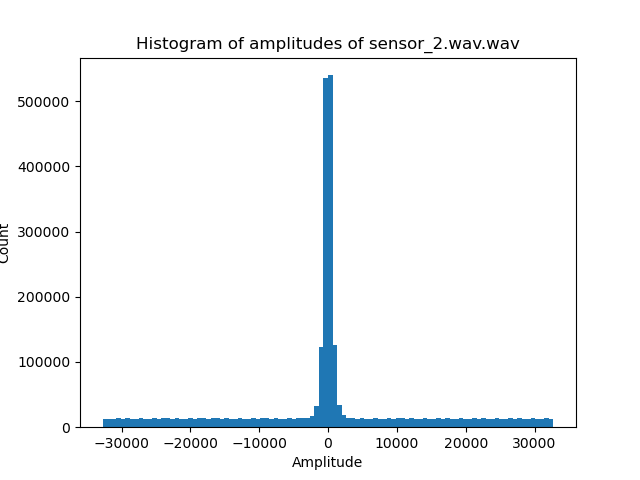
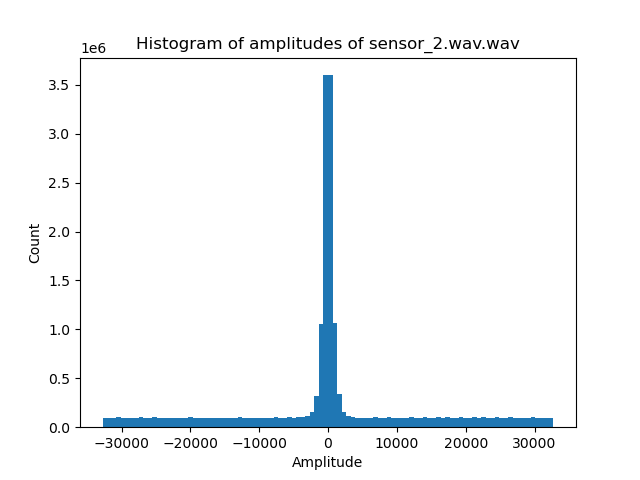
big reffactor

diff --git a/histograms.py b/histograms.py
@@ -10,6 +10,23 @@ def get_signal(filename):
     wav_file.close()
     return signal
 
+def get_framerate(filename):
+    wav_file = wave.open(filename, 'r')
+    framerate = wav_file.getframerate()
+    wav_file.close()
+    return framerate
+
+def compute_freq(signal, framerate):
+    # Compute the FFT of the signal and take the absolute value to get the magnitude
+    spectrum = np.abs(fft(signal))
+
+    # Compute the frequencies corresponding to the spectrum and only consider the positive frequencies
+    freq = np.fft.fftfreq(len(spectrum), 1 / framerate)
+    mask = freq > 0
+    spectrum = spectrum[mask]
+    freq = freq[mask]
+    return freq, spectrum
+
 def plot_waveform(filename='test_rec.wav'):
     wav_file = wave.open(filename, 'r')
 
@@ -48,23 +65,7 @@ def plot_waveform(filename='test_rec.wav'):
 
 # create histogram of amplitdues of audio file
 def histogram_of_amplitudes(filename):
-    wav_file = wave.open(filename, 'r')
-
-    # Get the frame rate
-    framerate = wav_file.getframerate()
-
-    # Calculate the number of frames that correspond to 30 seconds
-    num_frames = 30 * framerate
-
-    # Read the corresponding frames from the file
-    signal = wav_file.readframes(num_frames)
-    signal = np.frombuffer(signal, dtype='int16')
-
-    # Time axis in seconds
-    time = np.linspace(0., len(signal) / framerate, num=len(signal))
-
-    # Close the file
-    wav_file.close()
+    signal = get_signal(filename)
 
     # Create a new figure
     plt.figure()
@@ -78,38 +79,19 @@ def histogram_of_amplitudes(filename):
     # Label the axes
     plt.xlabel('Amplitude')
     plt.ylabel('Count')
-
-    # Here you can specify the title
     plt.title(f'Histogram of amplitudes of {filename}.wav')
 
-    # Display the plot
     plt.savefig(f'histograms/amp_hist_{filename}.png')
-    return max(signal) - min(signal)
+    plt.close()
+    return 
 
 
 def histogram_of_frequencies(filename):
-    # Open the file in read mode
-    wav_file = wave.open(filename, 'r')
-
-    # Read frames from the file
-    signal = wav_file.readframes(-1)
-    signal = np.frombuffer(signal, dtype='int16')
-
+    signal = get_signal(filename)
     # Get the frame rate
-    framerate = wav_file.getframerate()
+    framerate = get_framerate(filename)
 
-    # Close the file
-    wav_file.close()
-
-    # Compute the FFT of the signal and take the absolute value to get the magnitude
-    spectrum = np.abs(fft(signal))
-
-    # Compute the frequencies corresponding to the spectrum and only consider the positive frequencies
-    freq = np.fft.fftfreq(len(spectrum), 1 / framerate)
-    mask = freq > 0
-    spectrum = spectrum[mask]
-    freq = freq[mask]
-
+    freq, spectrum = compute_freq(signal, framerate)
     # Create a new figure
     plt.figure()
 
@@ -154,7 +136,7 @@ def histogram_of_volume_db(filename):
     plt.savefig(f'histograms/vol_db_hist{filename}.png')
     return
 
-def generate_histograms(filename):
+def generate_all_histograms(filename):
     #plot_waveform(filename)
     histogram_of_amplitudes(filename)
     histogram_of_frequencies(filename)
@@ -168,21 +150,15 @@ def number_of_samples(filename):
     wav_file.close()
     return num_frames
 
-def count_samples():
+def count_all_samples():
     for file in ['test_rec.wav', 'processed2.wav', 'sensor_1.wav', 'sensor_2.wav', 'sensor_3.wav', 'uni_mix_reduced_output.wav']:
         print(f'Number of samples in {file}: {number_of_samples(file)}')
         # all samples have 9595771 frames
     return
 
 def manhattan_distance_of_volume(file_one, file_two):
-    wav_file_one = wave.open(file_one, 'r')
-    wav_file_two = wave.open(file_two, 'r')
-    signal_one = wav_file_one.readframes(-1)
-    signal_two = wav_file_two.readframes(-1)
-    signal_one = np.frombuffer(signal_one, dtype='int16')
-    signal_two = np.frombuffer(signal_two, dtype='int16')
-    wav_file_one.close()
-    wav_file_two.close()
+    signal_one = get_signal(file_one)
+    signal_two = get_signal(file_two)
     if len(signal_two) > len(signal_one):
         signal_two = signal_two[::2]
     elif len(signal_one) > len(signal_two):
@@ -197,38 +173,26 @@ def manhattan_distance_of_volume(file_one, file_two):
     return manhattan_distance
 
 def manhattan_distance_amplitude(file_one, file_two):
-    wav_file_one = wave.open(file_one, 'r')
-    wav_file_two = wave.open(file_two, 'r')
-    signal_one = wav_file_one.readframes(-1)
-    signal_two = wav_file_two.readframes(-1)
-    signal_one = np.frombuffer(signal_one, dtype='int16')
-    signal_two = np.frombuffer(signal_two, dtype='int16')
+    signal_one = get_signal(file_one)
+    signal_two = get_signal(file_two)
 
     # remove every second value from signal_two if its longer than signal_one
     if len(signal_one) > len(signal_two):
         signal_one = signal_one[::2]
 
-    wav_file_one.close()
-    wav_file_two.close()
     manhattan_distance = np.sum(np.abs(signal_one - signal_two))
     manhattan_distance = "{:.3e}".format(manhattan_distance)
     print(f'Manhattan distance of amplitude between {file_one} and {file_two}: {manhattan_distance}')
     return manhattan_distance
 
 def manhattan_distance_frequence(file_one, file_two):
-    wav_file_one = wave.open(file_one, 'r')
-    wav_file_two = wave.open(file_two, 'r')
-    signal_one = wav_file_one.readframes(-1)
-    signal_two = wav_file_two.readframes(-1)
-    signal_one = np.frombuffer(signal_one, dtype='int16')
-    signal_two = np.frombuffer(signal_two, dtype='int16')
+    signal_one = get_signal(file_one)
+    signal_two = get_signal(file_two)
 
     # remove every second value from signal_two if its longer than signal_one
     if len(signal_one) > len(signal_two):
         signal_one = signal_one[::2]
 
-    wav_file_one.close()
-    wav_file_two.close()
     spectrum_one = np.abs(fft(signal_one))
     spectrum_two = np.abs(fft(signal_two))
     manhattan_distance = np.sum(np.abs(spectrum_one - spectrum_two))
@@ -238,14 +202,9 @@ def manhattan_distance_frequence(file_one, file_two):
     return manhattan_distance
 
 def normalize_amplitudes(file_one, file_two):    
-    wav_file_one = wave.open(file_one, 'r')
-    wav_file_two = wave.open(file_two, 'r')
-    signal_one = wav_file_one.readframes(-1)
-    signal_two = wav_file_two.readframes(-1)
-    signal_one = np.frombuffer(signal_one, dtype='int16')
-    signal_two = np.frombuffer(signal_two, dtype='int16')
-    wav_file_one.close()
-    wav_file_two.close()
+    signal_one = get_signal(file_one)
+    signal_two = get_signal(file_two)
+
     # normalize signal_two to signal_one
     signal_two = signal_two * np.average(signal_one) / np.average(signal_two)
     print(f'file 1: {np.average(signal_one)}, file 2: {np.average(signal_two)}')
@@ -253,6 +212,7 @@ def normalize_amplitudes(file_one, file_two):
     # Convert the normalized signal back to bytes
     signal_two_bytes = signal_two.astype(np.int16).tobytes()
 
+    wav_file_one = wave.open(file_one, 'r') # open file one to get parameters
     # Create a new wave file
     with wave.open('volume_segment_pcm_norm.wav', 'w') as wav_file:
         # Use the same parameters as the original file
@@ -262,27 +222,14 @@ def normalize_amplitudes(file_one, file_two):
     return signal_one, signal_two
 
 def compare_amp_hist(file_one, file_two):
-    wav_file_one = wave.open(file_one, 'r')
-    wav_file_two = wave.open(file_two, 'r')
-
-    # Get the frame rate
-    framerate = wav_file_one.getframerate()
-    # Calculate the number of frames that correspond to 30 seconds
-    num_frames = 30 * framerate
-
     # Read the corresponding frames from the file
-    signal_one = wav_file_one.readframes(num_frames)
-    signal_one = np.frombuffer(signal_one, dtype='int16')
-    signal_two = wav_file_two.readframes(num_frames)
-    signal_two = np.frombuffer(signal_two, dtype='int16')
+    signal_one = get_signal(file_one)
+    signal_two = get_signal(file_two)
     min_of_both = min(min(signal_one), min(signal_two))
     max_of_both = max(max(signal_one), max(signal_two))
     hist_1 = np.histogram(a=signal_one, bins=10, range=(min_of_both, max_of_both))
     hist_2 = np.histogram(a=signal_two, bins=10, range=(min_of_both, max_of_both))
 
-    # close the files
-    wav_file_one.close()
-    wav_file_two.close()
     # compute difference between histograms
     hist_diff = sum(np.abs(hist_1[0] - hist_2[0]))
     hist_diff = "{:.3e}".format(hist_diff)
@@ -290,34 +237,13 @@ def compare_amp_hist(file_one, file_two):
     return hist_diff
 
 def compare_freq_hist(file_one, file_two):
-    # Open the file in read mode
-    wav_file_one = wave.open(file_one, 'r')
-    wav_file_two = wave.open(file_two, 'r')
-    # Read frames from the file
-    signal_one = wav_file_one.readframes(-1)
-    signal_one = np.frombuffer(signal_one, dtype='int16')
-    signal_two = wav_file_two.readframes(-1)
-    signal_two = np.frombuffer(signal_two, dtype='int16')
+    signal_one = get_signal(file_one)
+    signal_two = get_signal(file_two)
     # Get the frame rate
-    framerate = wav_file_one.getframerate()
+    framerate = get_framerate(file_one)
 
-    # Close the file
-    wav_file_one.close()
-    wav_file_two.close()
-    # Compute the FFT of the signal and take the absolute value to get the magnitude
-    spectrum_one = np.abs(fft(signal_one))
-    spectrum_two = np.abs(fft(signal_two))
-
-    # Compute the frequencies corresponding to the spectrum and only consider the positive frequencies
-    freq_one = np.fft.fftfreq(len(spectrum_one), 1 / framerate)
-    freq_two = np.fft.fftfreq(len(spectrum_two), 1 / framerate)
-
-    mask_one = freq_one > 0
-    mask_two = freq_two > 0
-    spectrum_one = spectrum_one[mask_one]
-    spectrum_two = spectrum_two[mask_two]
-    freq_one = freq_one[mask_one]
-    freq_two = freq_two[mask_two]
+    freq_one, spectrum_one = compute_freq(signal_one, framerate)
+    freq_two, spectrum_two = compute_freq(signal_two, framerate)
 
     min_both = min(min(freq_one), min(freq_two))
     max_both = max(max(freq_one), max(freq_two))
@@ -333,14 +259,14 @@ def compare_freq_hist(file_one, file_two):
 
 
 if False:
-    generate_histograms('test_rec.wav') # test set from pixel
-    generate_histograms('processed2.wav') # simple addition fusion
-    generate_histograms('sensor_1.wav') # raw and normalized
-    generate_histograms('sensor_2.wav') # raw and normalized
-    generate_histograms('sensor_3.wav') # raw and normalized
-    generate_histograms('uni_mix_reduced_output.wav') # 
-if False:
-    generate_histograms('volume_segment_pcm_norm.wav')
+    generate_all_histograms('test_rec.wav') # test set from pixel
+    generate_all_histograms('processed2.wav') # simple addition fusion
+    generate_all_histograms('sensor_1.wav') # raw and normalized
+    generate_all_histograms('sensor_2.wav') # raw and normalized
+    generate_all_histograms('sensor_3.wav') # raw and normalized
+    generate_all_histograms('uni_mix_reduced_output.wav') # 
+    generate_all_histograms('volume_segment_pcm_norm.wav')
+    
 
 if False:
     for file in ['test_rec.wav', 'sensor_1.wav', 'sensor_2.wav', 'sensor_3.wav', 'processed2.wav', 'uni_mix_reduced_output.wav']:
@@ -356,5 +282,5 @@ if False:
 
 if True:
     for file in ['sensor_1.wav', 'sensor_2.wav', 'sensor_3.wav', 'processed2.wav', 'uni_mix_reduced_output.wav', 'volume_segment_pcm_norm.wav']:
-        compare_amp_hist('test_rec.wav', file)
-        #compare_freq_hist('test_rec.wav', file)
+        #compare_amp_hist('test_rec.wav', file)
+        compare_freq_hist('test_rec.wav', file)
